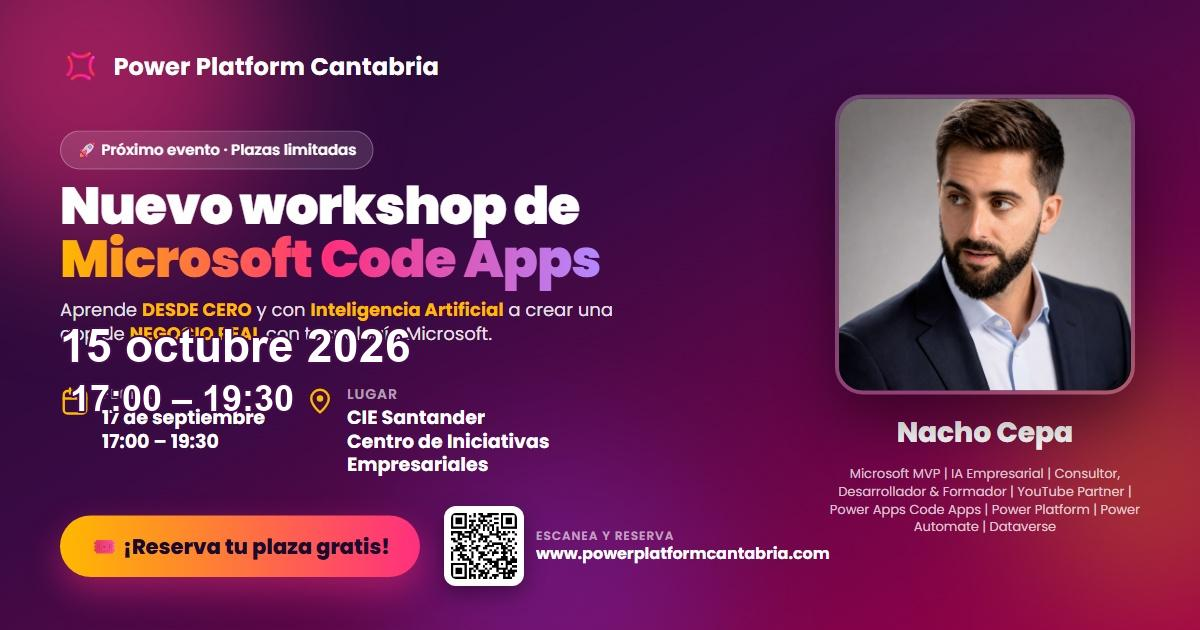
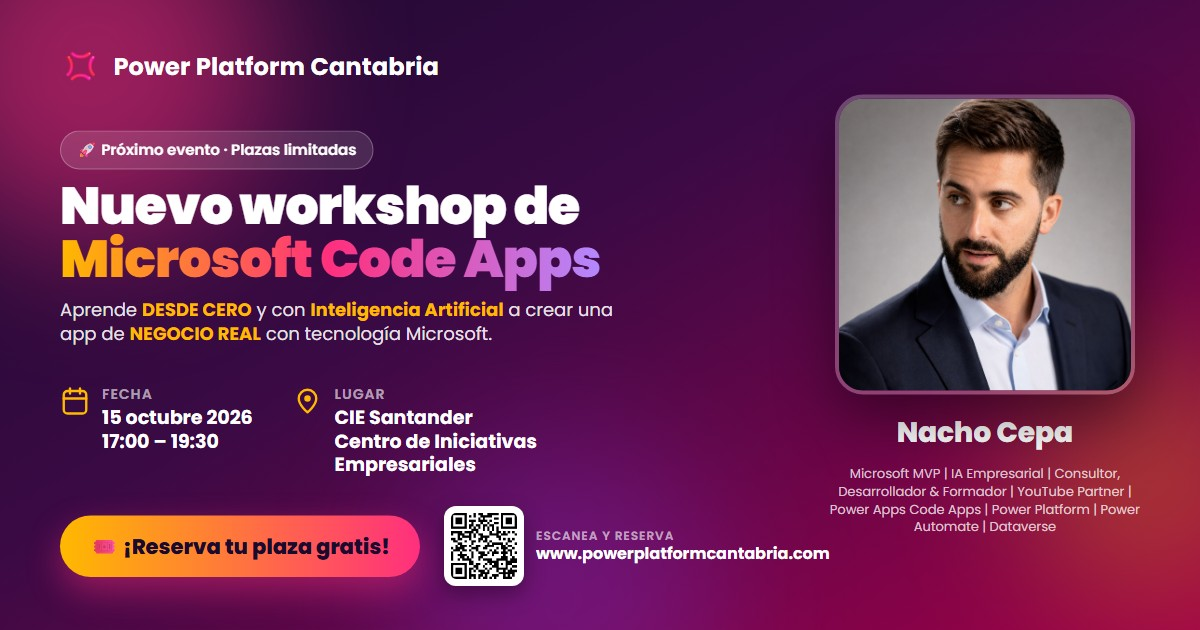
Arreglo fecha v2

diff --git a/index.html b/index.html
@@ -60,7 +60,7 @@
             <svg viewBox="0 0 24 24" fill="none" stroke="currentColor" stroke-width="1.8" stroke-linecap="round" stroke-linejoin="round"><rect x="3" y="4" width="18" height="18" rx="3"/><line x1="16" y1="2" x2="16" y2="6"/><line x1="8" y1="2" x2="8" y2="6"/><line x1="3" y1="10" x2="21" y2="10"/><circle cx="12" cy="16" r="2.2" fill="currentColor" stroke="none"/></svg>
           </div>
           <h5 class="info-title">Fecha</h5>
-          <p class="info-text mb-0">17 de septiembre<br>de 17:00 a 19:30</p>
+          <p class="info-text mb-0">15 de octubre de 2026<br>de 17:00 a 19:30</p>
         </div>
       </div>
       <div class="col-md-5 col-lg-4 mb-3">
@@ -1184,7 +1184,7 @@
 <script src="https://stackpath.bootstrapcdn.com/bootstrap/4.5.2/js/bootstrap.bundle.min.js"></script>
 <script>
   (function () {
-    var target = new Date('2026-09-17T17:00:00+02:00').getTime();
+    var target = new Date('2026-10-15T17:00:00+02:00').getTime();
     var d = document.getElementById('cd-days'),
         h = document.getElementById('cd-hours'),
         m = document.getElementById('cd-mins'),

diff --git a/poster.html b/poster.html
@@ -204,7 +204,7 @@
           <svg viewBox="0 0 24 24" fill="none" stroke-width="1.9" stroke-linecap="round" stroke-linejoin="round"><rect x="3" y="4" width="18" height="18" rx="3"/><line x1="16" y1="2" x2="16" y2="6"/><line x1="8" y1="2" x2="8" y2="6"/><line x1="3" y1="10" x2="21" y2="10"/></svg>
           <div>
             <div class="meta-label">Fecha</div>
-            <div class="meta-value">17 de septiembre<br>17:00 – 19:30</div>
+            <div class="meta-value">15 octubre 2026<br>17:00 – 19:30</div>
           </div>
         </div>
         <div class="meta-item">
